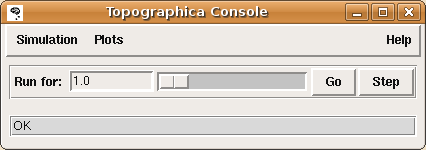
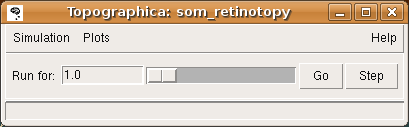
Updated SOM retinotopy tutorial with new screenshots.

diff --git a/doc/Tutorials/som_retinotopy_text.php b/doc/Tutorials/som_retinotopy_text.php
@@ -59,7 +59,7 @@ develops a mapping of the dimensions of variance in the input space.
 You should now see a window for the GUI:
 <p class='center'>
 <img src="images/topographica_console.png" alt="Console Window"
-align="middle" width="426" height="149">
+align="middle" width="409" height="127">
 </p>
   
 <p>
@@ -87,14 +87,14 @@ align="middle" WIDTH="272" HEIGHT="265" border=2>
 <li>To see the initial state of this network, select <span
 class='t_item'>Projection</span> from the <span
 class='t_item'>Plots</span> menu to get the <span
-class='w_title'>Projection</span> window, and press the Update
-command's refresh arrow as the window suggests.  This plot shows the
+class='w_title'>Projection</span> window, and press the Pre plot hooks'
+refresh arrow as the window suggests.  This plot shows the
 initial set of weights from a 10x10 subset of the V1 neurons:
 <!-- (i.e., all neurons for this small network): -->
 
 <p class='center'>
 <img src="images/som_projection_000000.png" alt="Projection window at 0"
-align="middle" WIDTH="379" HEIGHT="545">
+align="middle" WIDTH="496" HEIGHT="505">
 </p>
 
 <p> Each neuron is fully connected to the input units, and thus has a
@@ -112,7 +112,7 @@ cortical space using a Center of Gravity plot.  To get one, open the
 class='w_title'>Topographica Console</span>, select <span
 class='t_item'>Preference Maps</span> and then <span
 class='t_item'>Center of Gravity</span>, and press the Refresh button
-by the Update Command to get several plots.  These plots show the
+by the Pre-plot hooks to get several plots.  These plots show the
 results of computing the <i>center of gravity</i>
 (a.k.a. <i>centroid</i> or <i>center of mass</i>) of the set of input
 weights for each neuron.
@@ -139,7 +139,7 @@ Gravity</span> plot window, although it is more difficult to interpret
 at this stage:
 
 <p class='center'>
-<IMG WIDTH="511" HEIGHT="388" SRC="images/som_cog_000000.png"  align="middle" alt="CoG bitmap plots">
+<IMG WIDTH="505" HEIGHT="360" SRC="images/som_cog_000000.png"  align="middle" alt="CoG bitmap plots">
 </p>
 
 where the V1 X CoG plot shows the X location preferred by each neuron,
@@ -168,7 +168,7 @@ cortical response to the given input pattern.  Select
 the <span class='t_item'>Plots</span> menu to get the following plot:
 
 <p class='center'>
-<IMG WIDTH="379" HEIGHT="388" SRC="images/som_activity_000000.png" align="middle" alt="Activity at 0">
+<IMG WIDTH="402" HEIGHT="360" SRC="images/som_activity_000000.png" align="middle" alt="Activity at 0">
 </p>
 
 <p>This window shows the response for each Sheet in the model, which
@@ -183,7 +183,7 @@ Console</span> window, make sure it says 1, and hit Go.  The
 show something like:
 
 <p class='center'>
-<IMG WIDTH="379" HEIGHT="388" SRC="images/som_activity_000001.png" align="middle" alt="Activity at 0">
+<IMG WIDTH="402" HEIGHT="360" SRC="images/som_activity_000001.png" align="middle" alt="Activity at 1">
 </p>
 
 <p>In the <span class='t_item'>Retina</span> plot, each photoreceptor
@@ -202,7 +202,7 @@ a Gaussian shape, you can look at the Projection Activity plot</a>,
 which shows the feedforward activity in V1:
 
 <p class='center'>
-<IMG WIDTH="379" HEIGHT="418" SRC="images/som_projection_activity_000001.png" align="middle" alt="Projection Activity at 0">
+<IMG WIDTH="402" HEIGHT="380" SRC="images/som_projection_activity_000001.png" align="middle" alt="Projection Activity at 1">
 </p>
 
 <P>Here these responses are best thought of as Euclidean proximity,
@@ -214,13 +214,13 @@ activity appears random because the Euclidean distance from the input
 vector to the initial random weight vector is random.
 
 <P><li> If you now hit the <span class='t_item'>Refresh</span> arrow
-on the Update command in the <span class='w_title'>Projection</span>
+for the pre-plot hooks in the <span class='w_title'>Projection</span>
 window, you'll see that most of the neurons have learned new weight
 patterns based on this input.
 
 <p class='center'>
 <img src="images/som_projection_000001.png" alt="Projection window at 1"
-align="middle" WIDTH="379" HEIGHT="545">
+align="middle" WIDTH="496" HEIGHT="505">
 </p>
 
 (You should probably turn on the <span
@@ -244,7 +244,7 @@ patterns, though not very cleanly yet:
 
 <p class='center'>
 <img src="images/som_projection_000005.png" alt="Projection window at 5"
-align="middle" WIDTH="379" HEIGHT="545">
+align="middle" WIDTH="496" HEIGHT="505">
 </p>
 
 If you look at the Projection Activity window, you will see that the
@@ -262,7 +262,7 @@ After 5000 iterations, updating the <span class='w_title'>Center of
 Gravity</span> should result in something like:
 
 <p class='center'>
-<IMG WIDTH="511" HEIGHT="388" SRC="images/som_cog_005000.png"  align="middle" alt="CoG bitmap plots">
+<IMG WIDTH="505" HEIGHT="360" SRC="images/som_cog_005000.png"  align="middle" alt="CoG bitmap plots">
 </p>
 
 The X and Y CoG plots are now smooth, but not yet the axis-aligned gradients
@@ -288,7 +288,7 @@ selective for typical input patterns:
 
 <P class='center'>
 <img src="images/som_projection_010000.png" alt="Projection window at 10000"
-align="middle" WIDTH="379" HEIGHT="545">
+align="middle" WIDTH="496" HEIGHT="505">
 </p>
 
 
@@ -305,7 +305,7 @@ matching a prototypical input at one location:
 
 <p class='center'>
 <img src="images/som_projection_040000.png" alt="Projection window at 40000"
-align="middle" WIDTH="379" HEIGHT="545">
+align="middle" WIDTH="496" HEIGHT="505">
 </p>
 
 For this particular example, the topographic mapping for the x
